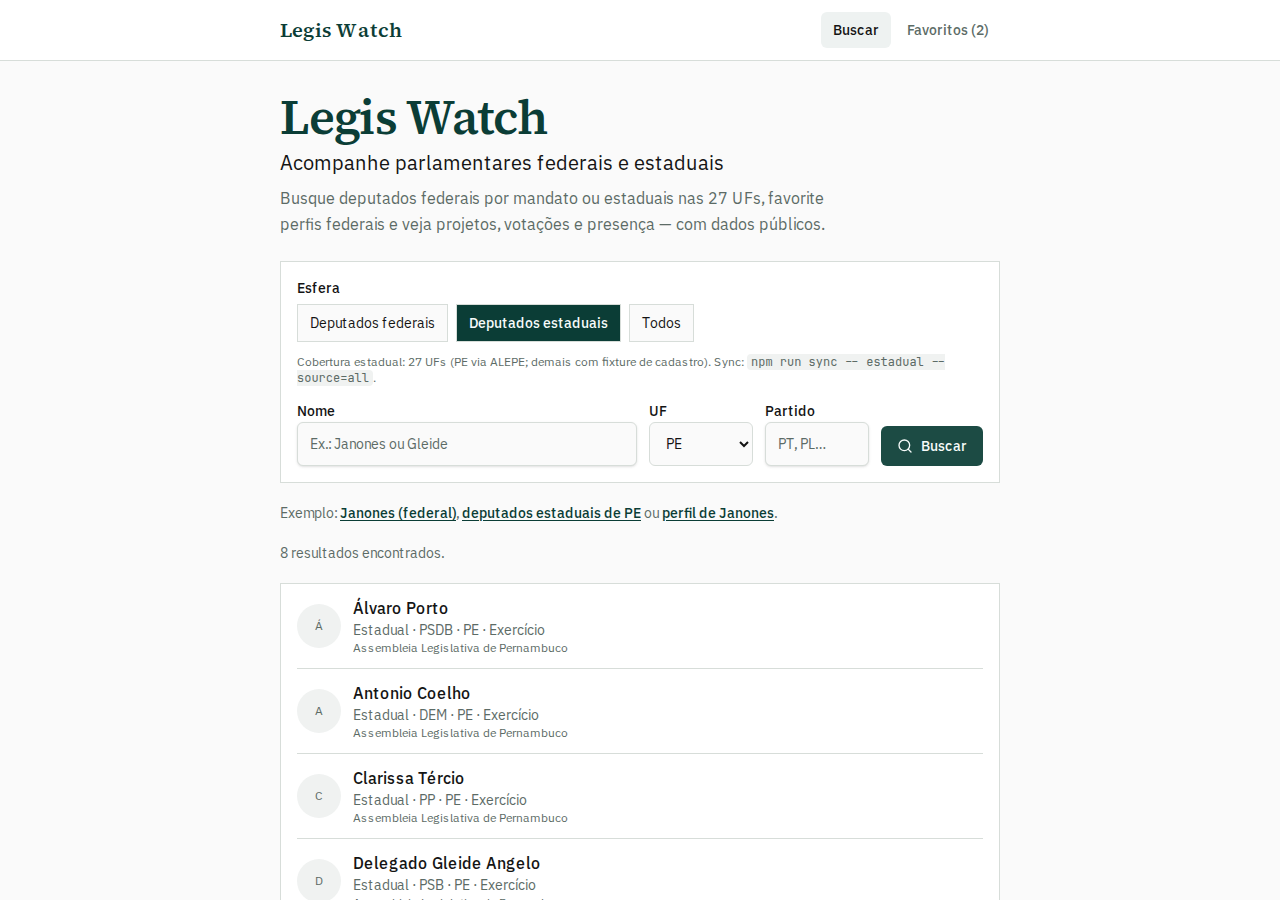
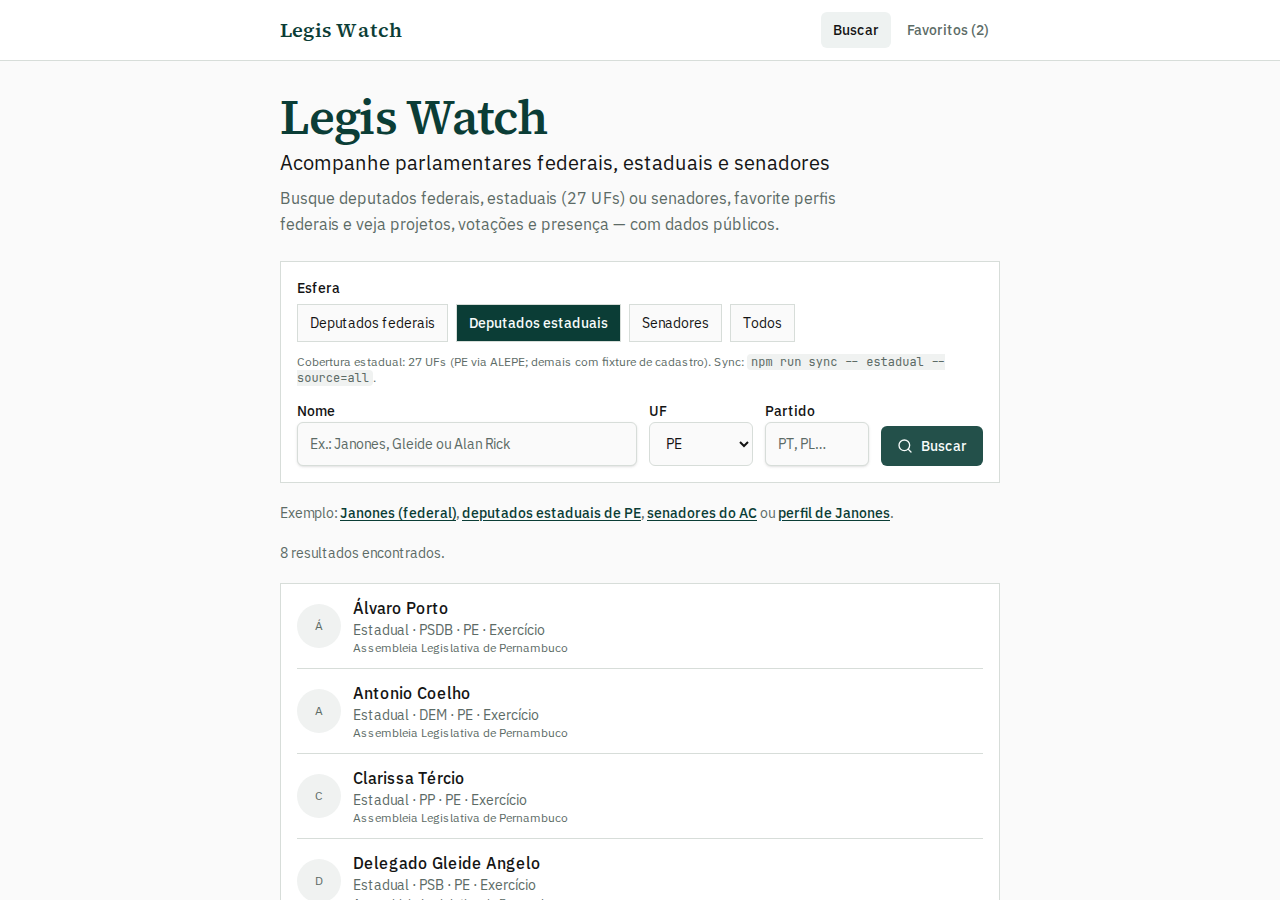
Atualizar guia e prints: senadores com matérias, filiações e cobertura.
Regenera screenshots do produto, documenta as abas do perfil do Senado
e alinha o texto da home com a esfera de senadores.

diff --git a/src/app/page.tsx b/src/app/page.tsx
@@ -20,7 +20,7 @@ export default async function HomePage() {
           Legis Watch
         </p>
         <h1 className="text-lg text-foreground sm:text-xl">
-          Acompanhe parlamentares federais e estaduais
+          Acompanhe parlamentares federais, estaduais e senadores
         </h1>
         <p className="max-w-xl text-sm leading-relaxed text-muted-foreground sm:text-base">
           Busque deputados federais, estaduais (27 UFs) ou senadores, favorite

diff --git a/docs/README.md b/docs/README.md
@@ -10,9 +10,9 @@ Para entender o que o app faz, com prints das telas.
 
 | Documento | Conteúdo |
 |---|---|
-| [Guia do produto](./GUIA-DO-PRODUTO.md) | Busca (federal + estadual), favoritos, projetos, votações, presença/ata, partido — prints atualizados |
+| [Guia do produto](./GUIA-DO-PRODUTO.md) | Busca (federal + estadual + senadores), favoritos, projetos, votações, presença/ata, partido, perfil do Senado — prints atualizados |
 | [Deputados estaduais por UF](./estaduais.md) | Catálogo das 27 UFs, live vs fixture, sync e limitações |
-| [Senadores](./senado.md) | Lista atual, busca/perfil e disclaimer de presença |
+| [Senadores](./senado.md) | Lista atual, perfil (filiações/mandatos/matérias) e disclaimer de presença |
 
 ---
 
@@ -40,7 +40,7 @@ docs/
 ├── README.md                 ← você está aqui (índice)
 ├── GUIA-DO-PRODUTO.md        ← produto + screenshots/
 ├── estaduais.md              ← cobertura estadual (27 UFs)
-├── senado.md                 ← senadores (busca/perfil)
+├── senado.md                 ← senadores (busca/perfil/matérias)
 ├── PLANO-EXPANSAO.md         ← roadmap estadual/Senado + cache
 ├── apis-v1.md                ← técnica: Câmara
 ├── backend-api.md            ← técnica: API interna

diff --git a/docs/PLANO-EXPANSAO.md b/docs/PLANO-EXPANSAO.md
@@ -409,6 +409,6 @@ Produção       → C4 Redis se houver mais de uma instância
 | 1 | Cache de busca (C1–C3) | Feito (Redis = C4 pendente) |
 | 2 | Modelo unificado + ALEPE + 27 UFs (E0–E1 base) | Feito (busca/perfil) |
 | 3 | Adapters live (ALMG, ALEP, SAPL…) + proposições | Próximo |
-| 4 | Senadores | Pendente |
+| 4 | Senadores (lista + perfil enriquecido) | Feito (votos ainda pendentes) |
 
 Continuar: [Índice](./README.md) · [Estaduais](./estaduais.md) · [APIs Câmara](./apis-v1.md) · [API interna](./backend-api.md)

diff --git a/docs/backend-api.md b/docs/backend-api.md
@@ -124,7 +124,8 @@ x-sync-secret: <SYNC_SECRET se definido>
 - `source` omitido ou `"all"` → sincroniza as **27 UFs**
 - `source=alepe` (ou outra casa) → só aquela Assembleia
 
-`domain=senadores` → lista atual do Senado (`/senador/lista/atual.json`).
+`domain=senadores` → lista atual do Senado (`/senador/lista/atual.json`).  
+Perfil enriquecido (filiações/mandatos/autorias) roda sob demanda no `GET /api/parlamentares/senado/{codigo}` ou via CLI `npm run sync -- senador-perfil --codigo=5672`.
 
 Preferível via CLI:
 

diff --git a/docs/senado.md b/docs/senado.md
@@ -38,6 +38,8 @@ Resposta do perfil inclui `affiliations`, `mandates`, `matters`, `profileSyncedA
 
 UI: esfera **Senadores** na home · perfil `/parlamentares/senado/{codigo}` com abas Matérias / Filiações / Mandatos / Cobertura.
 
+Prints no [guia do produto](./GUIA-DO-PRODUTO.md#8-senadores): busca, matérias, filiações e cobertura.
+
 ## Cobertura
 
 | Recurso | Status |
